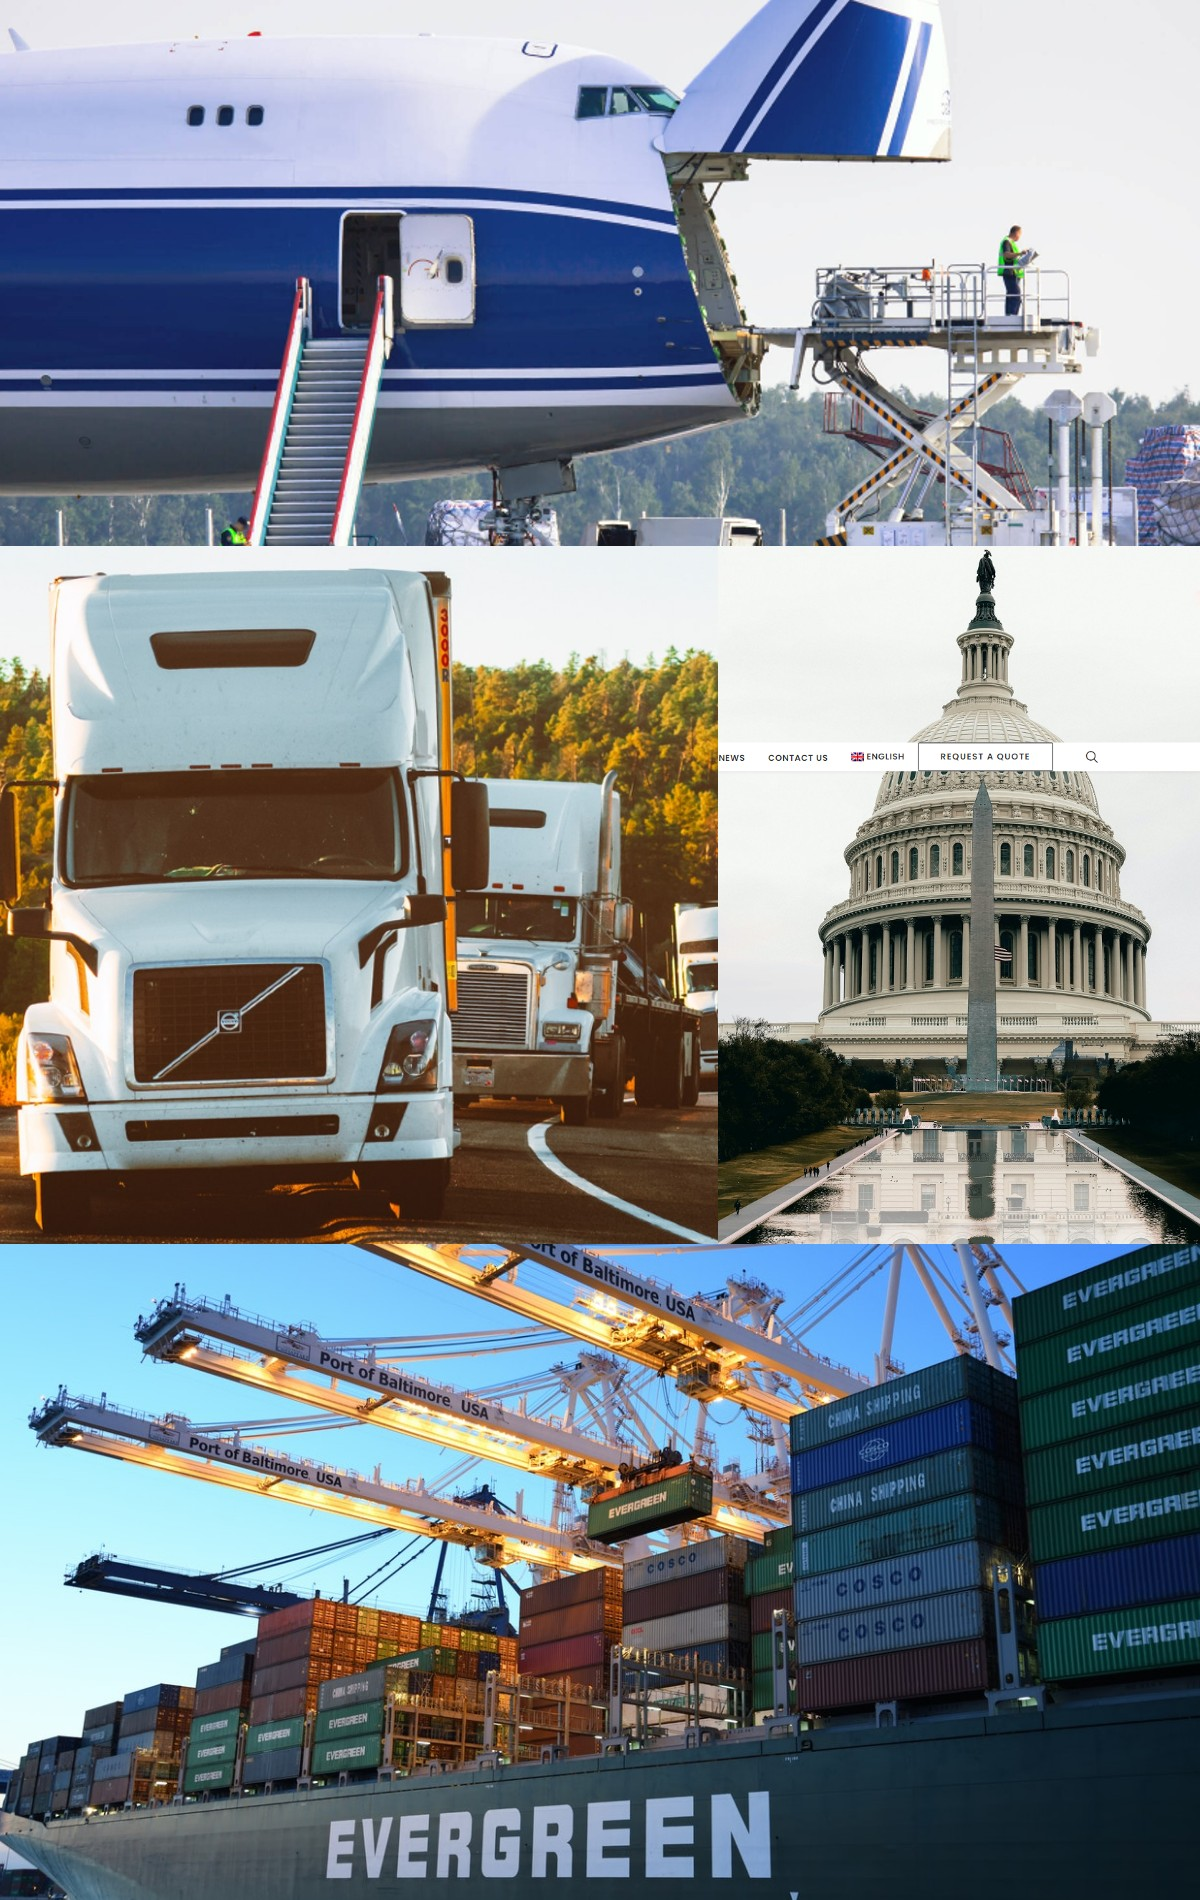
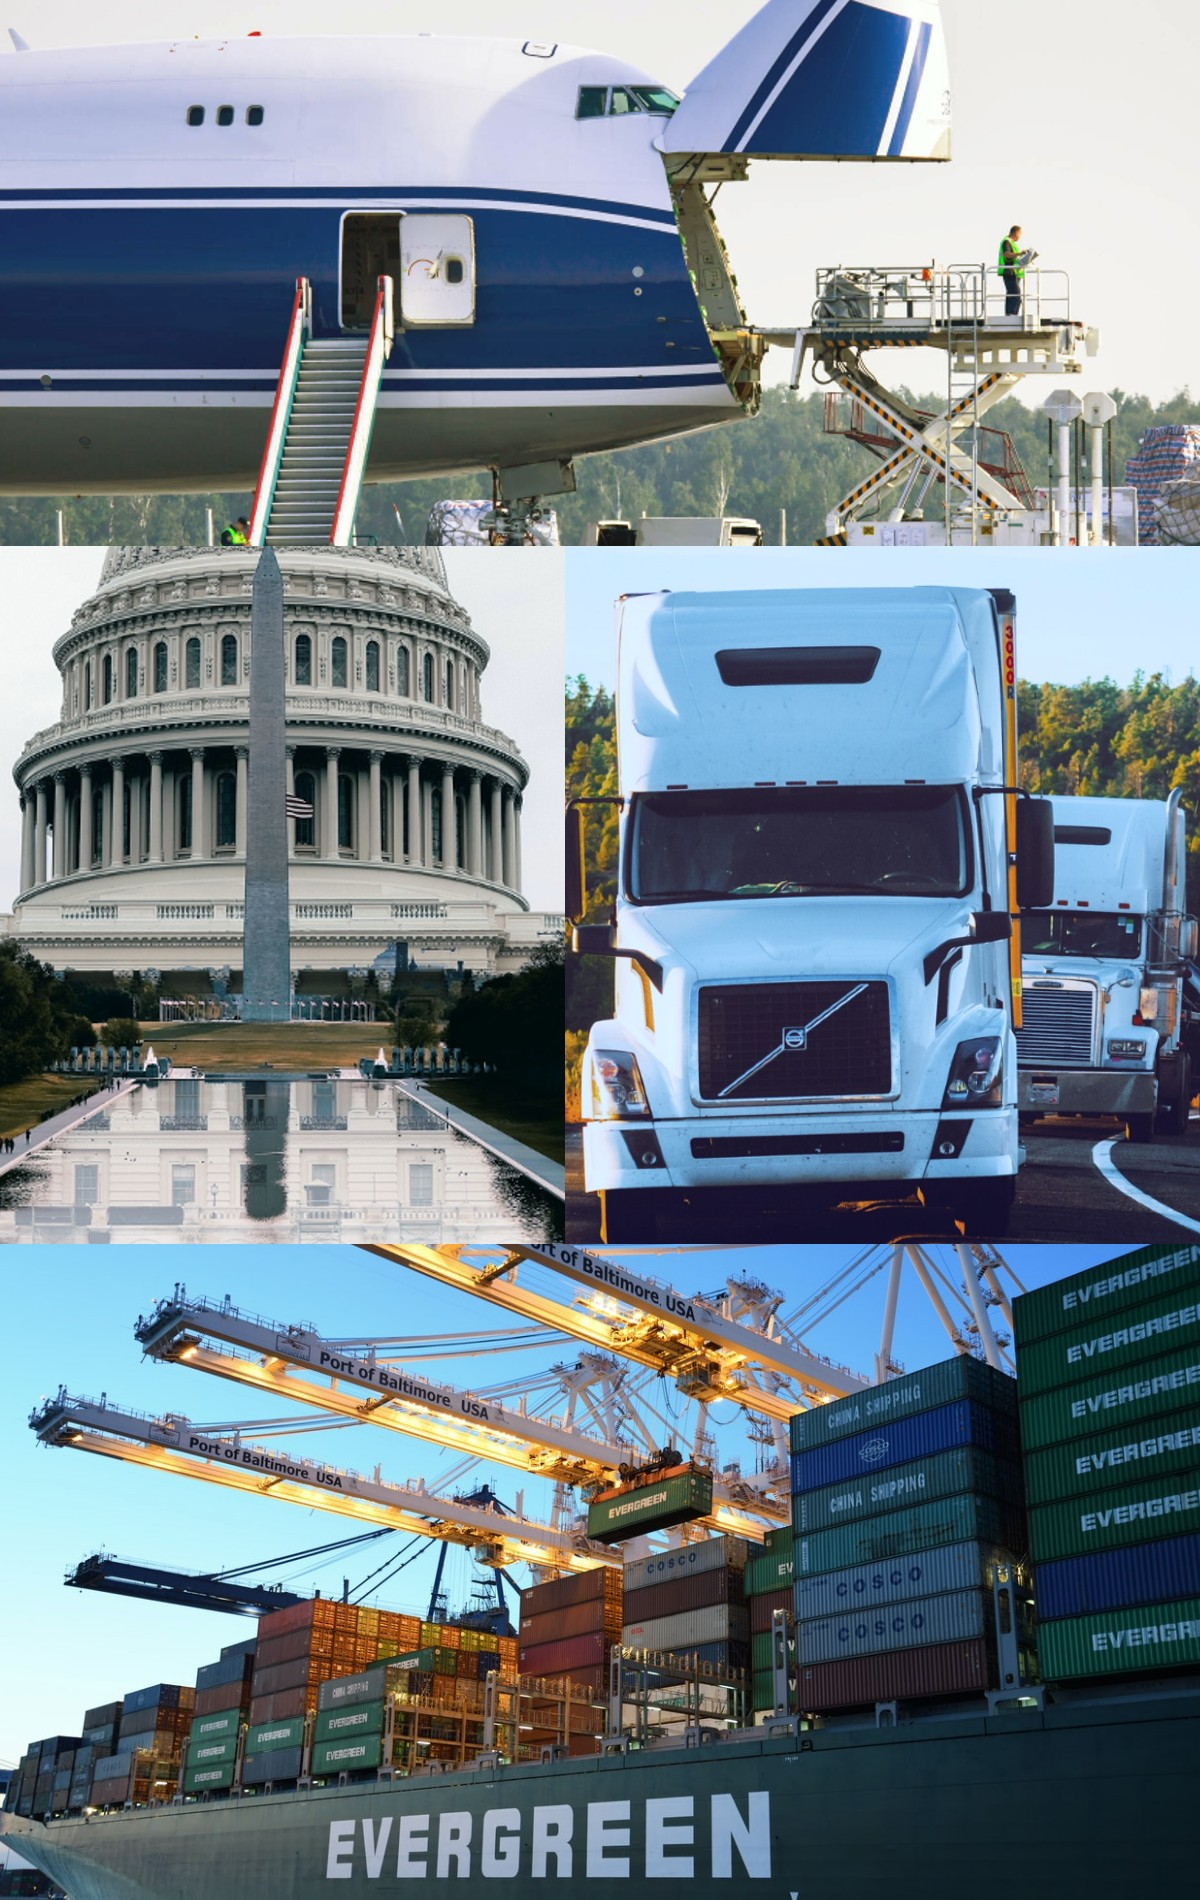
Png => JPG

diff --git a/src/Components/Home/MHome.jsx b/src/Components/Home/MHome.jsx
@@ -23,7 +23,7 @@ const MHome = () => {
 
       <Flex justify="center" width="100%">
         <Image
-          src="/assets/imEx.png"
+          src="/assets/Services.jpg"
           alt="Shipment Services"
           width="100%"
           height="100%"

diff --git a/src/Components/Home/LHome.jsx b/src/Components/Home/LHome.jsx
@@ -22,7 +22,7 @@ const LHome = () => {
 
       <Flex justify="center">
         <Image
-          src="/assets/imEx.png"
+          src="/assets/Services.jpg"
           alt="Shipment Services"
           maxW="800px"
         />
